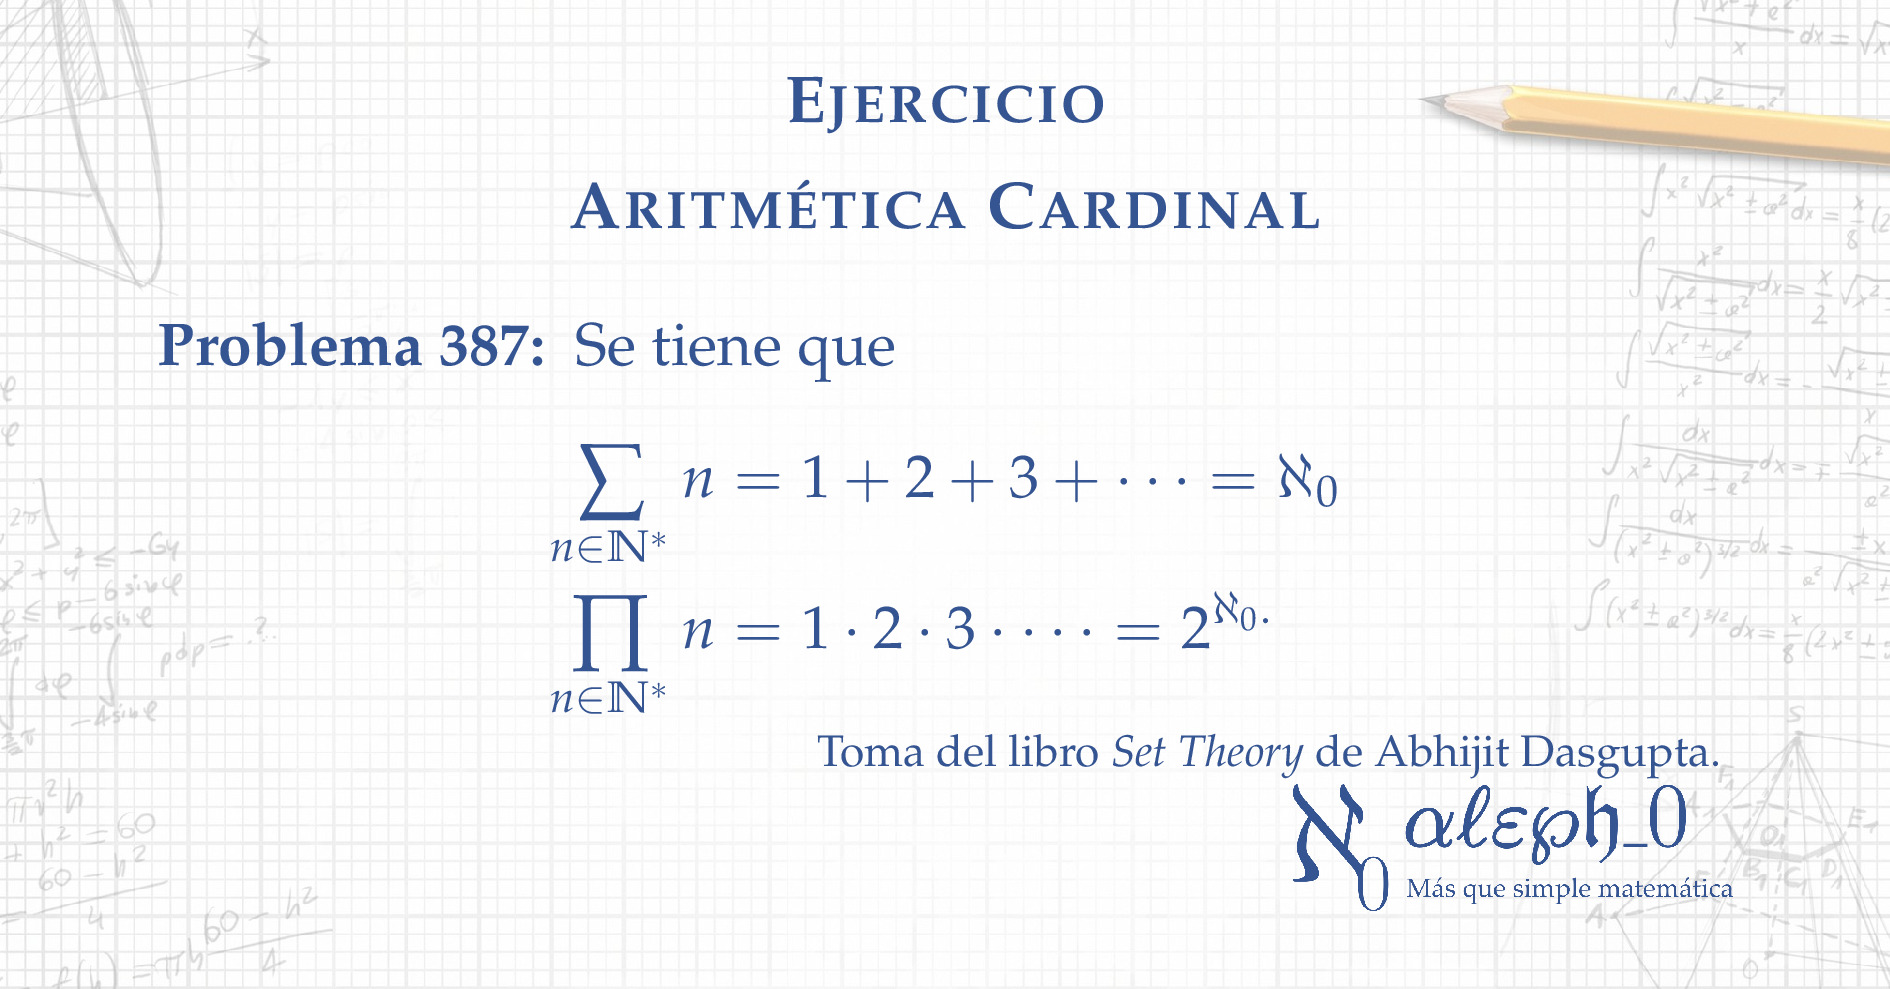
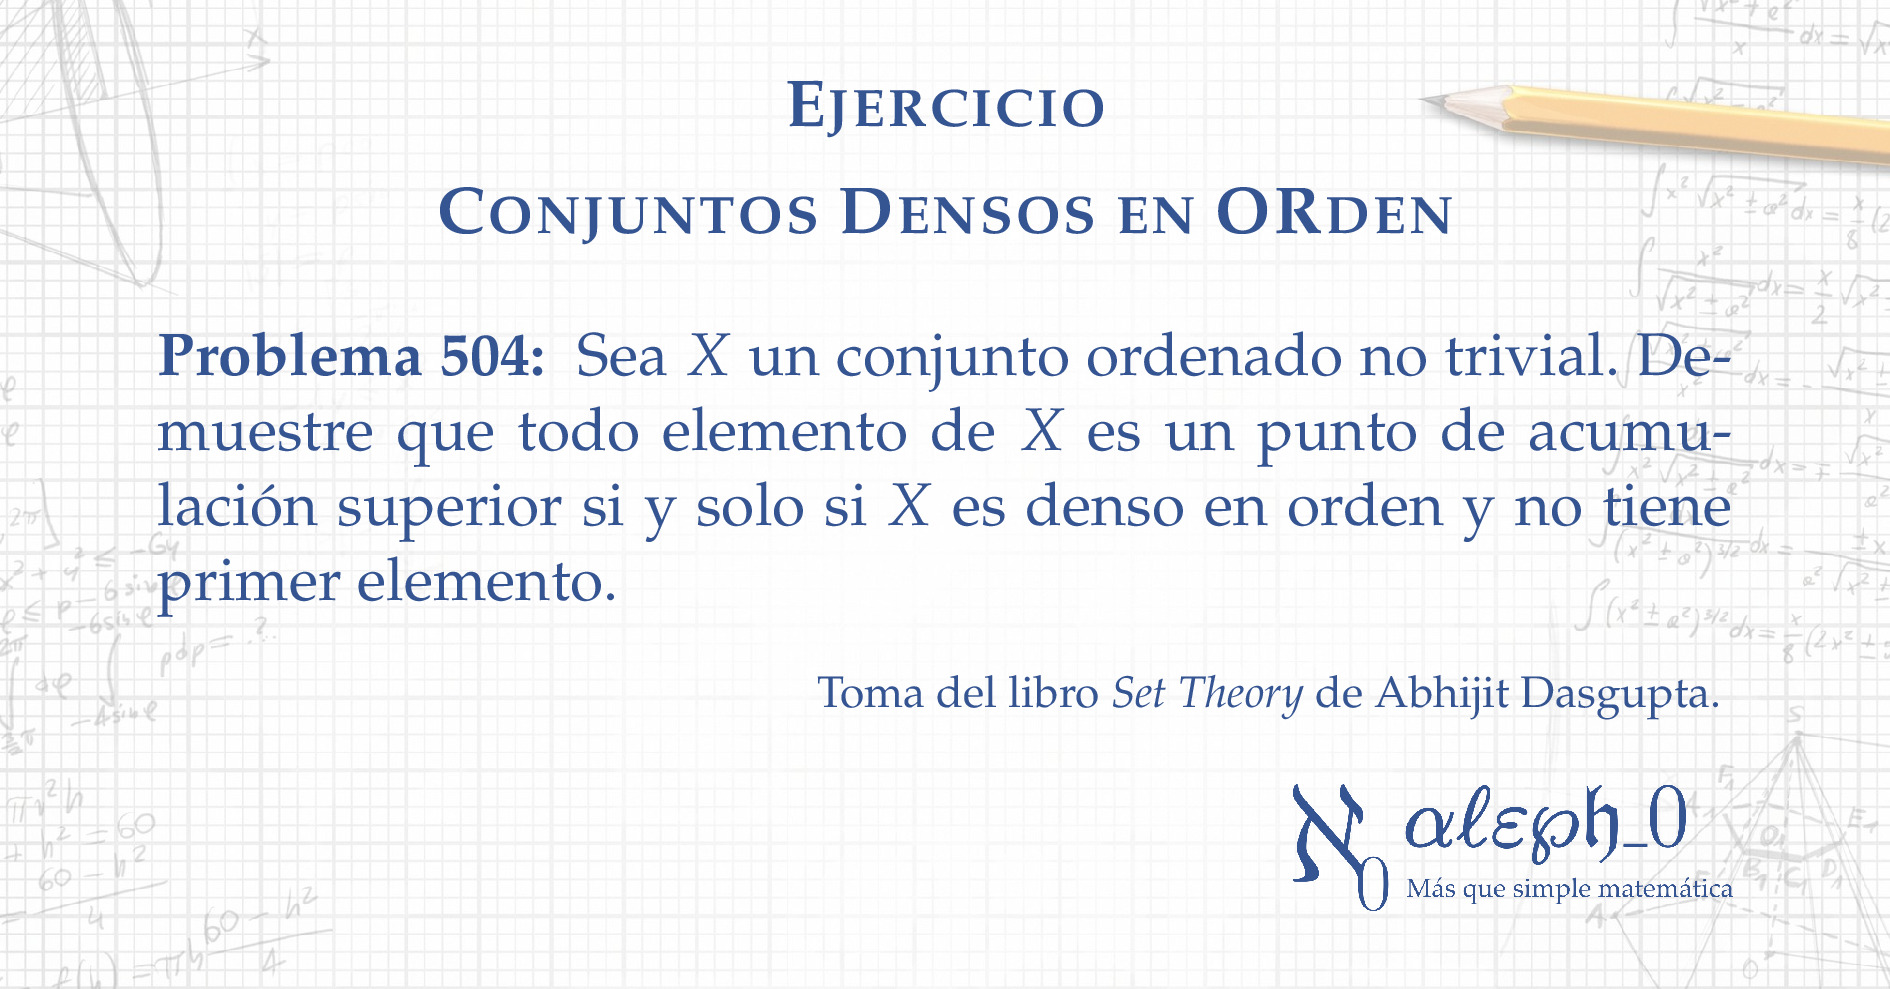
agrega ejercicio 504

diff --git a/Cap08/Problema0504.tex b/Cap08/Problema0504.tex
@@ -1,0 +1,59 @@
+\documentclass[a4,10pt]{aleph-notas}
+
+% -- Paquetes adicionales
+\usepackage{enumitem}
+\usepackage{aleph-comandos}
+
+% -- Datos
+\institucion{Proyecto Alephsub0}
+\asignatura{Teoría de conjuntos}
+\tema{Problema 504 del libro de Abhijit Dasgupta}
+\autor{Andrés Merino}
+\fecha{Diciembre 2024}
+
+\fuente{montserrat}
+\logouno[4.5cm]{Logos/LogoAlephsub0-02}
+\definecolor{colordef}{cmyk}{0.81,0.62,0.00,0.22}
+
+% -- Comandos adicionales
+\newtheorem*{prob}{Problema}
+    \tcolorboxenvironment{prob}{%
+        color=colordef,recuadrost,colback=colordef!7,drop fuzzy shadow
+    }
+
+
+\begin{document}
+
+\encabezado
+
+\noindent
+El siguiente problema corresponde al Problema 504 del libro Set theory de Abhijit Dasgupta. Primero, presentemos algunas definiciones:
+
+\begin{defi}
+Sean $X$ un conjunto ordenado, $a \in X$ y  $A \subseteq X$.
+Decimos que $a$ es un \textit{punto de acumulación superior de $A$ en $X$} si $a$ no es el primer elemento de $X$, y para todo $x < a$ existe algún $p \in A$ tal que $x < p < a$. 
+\end{defi}
+
+\begin{defi}
+Un conjunto ordenado no trivial $X$ se dice \textit{denso en orden} si para todos $x, y \in X$ con $x < y$, existe $z \in X$ tal que $x < z < y$, es decir, si $X$ no contiene elementos consecutivos.
+\end{defi}
+
+\begin{prob}
+    Sea $X$ un conjunto ordenado no trivial. Demuestre que todo elemento de $X$ es un punto de acumulación superior si y solo si $X$ es denso en orden y no tiene primer elemento.
+\end{prob}
+
+\begin{proof}
+Supongamos que todo elemento de $X$ es un punto de acumulación superior.
+
+\begin{itemize}
+    \item Como todo elemento de $X$ es un punto de acumulación superior, entonces ninguno puede ser el primer elemento. Por lo tanto, $X$ no tiene primer elemento.
+
+    \item Ahora, sean $x, y \in X$ tales que $x < y$. Como $y$ es un punto de acumulación superior, se tiene que para todo $x < y$, existe $z \in X$ tal que $x < z < y$. De donde se concluye que $X$ es denso en orden.
+\end{itemize}
+
+Recíprocamente, supongamos que $X$ es denso en orden y que no tiene primer elemento. Sea $x \in X$, vamos a demostrar que $x$ es un punto de acumulación superior.
+
+Primero, como $X$ no tiene primer elemento, se cumple que $x$ no es el primer elemento de $X$. Además, para todo $y < x$ con $y \in X$, como $X$ es denso en orden, existe $z \in X$ tal que $y < z < x$. Por lo tanto, existe un elemento entre $y$ y $x$ que pertenece a $X$, lo que implica que $x$ es un punto de acumulación superior.
+\end{proof}
+
+\end{document}

diff --git a/Portada.tex b/Portada.tex
@@ -6,12 +6,9 @@
 
 \begin{document}
 
-\titulo{Aritmética Cardinal}
+\titulo{Conjuntos Densos en ORden}
 
-\problema[0mm]{435-1}{Sea \[\mathcal{R}[0,1] = \{ \func{f}{[0,1]}{\mathbb{R}} : f\text{ es acotada y Riemann integrable} \}.\] Se tiene que 
-    $
-        \big|\mathcal{R}[0,1]\big| = 2^{\aleph_0} = \mathfrak{c}.
-    $}
+\problema[0mm]{504}{ Sea $X$ un conjunto ordenado no trivial. Demuestre que todo elemento de $X$ es un punto de acumulación superior si y solo si $X$ es denso en orden y no tiene primer elemento.}
 
 \vspace{2mm}
 {\scriptsize
